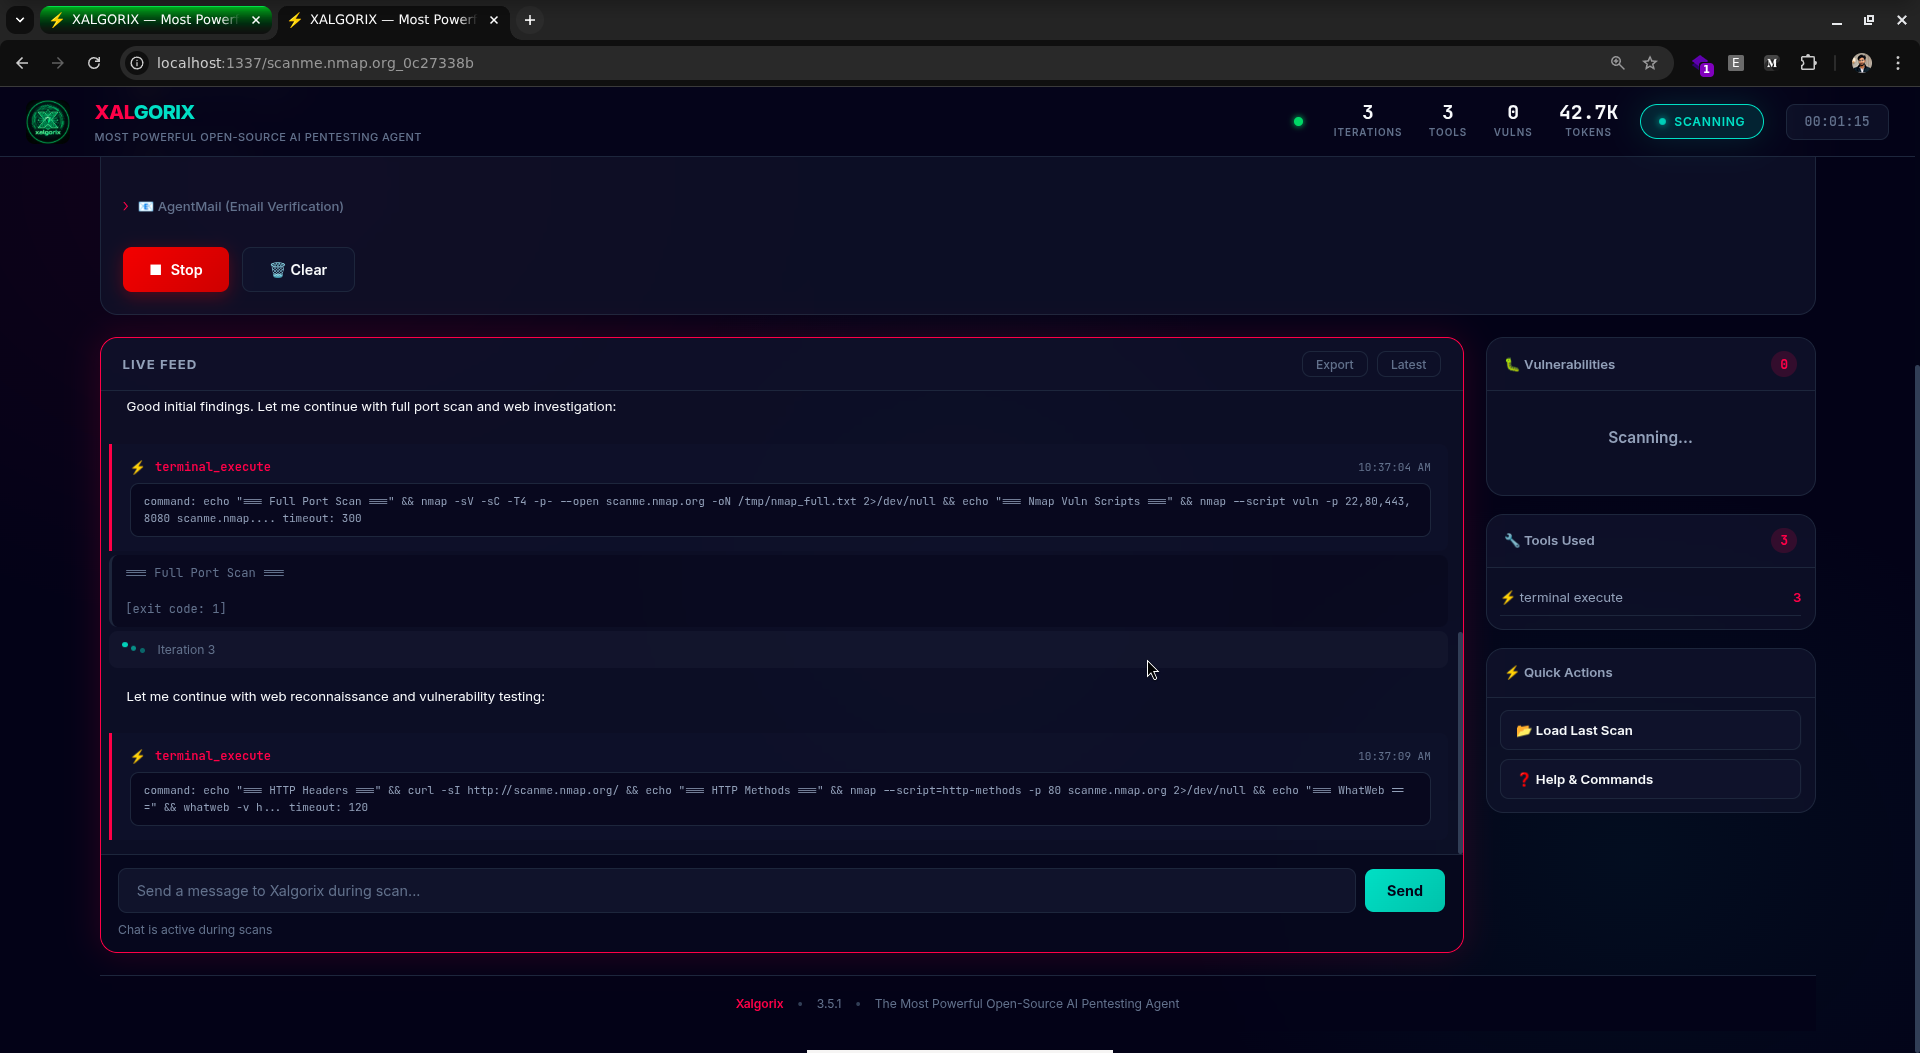
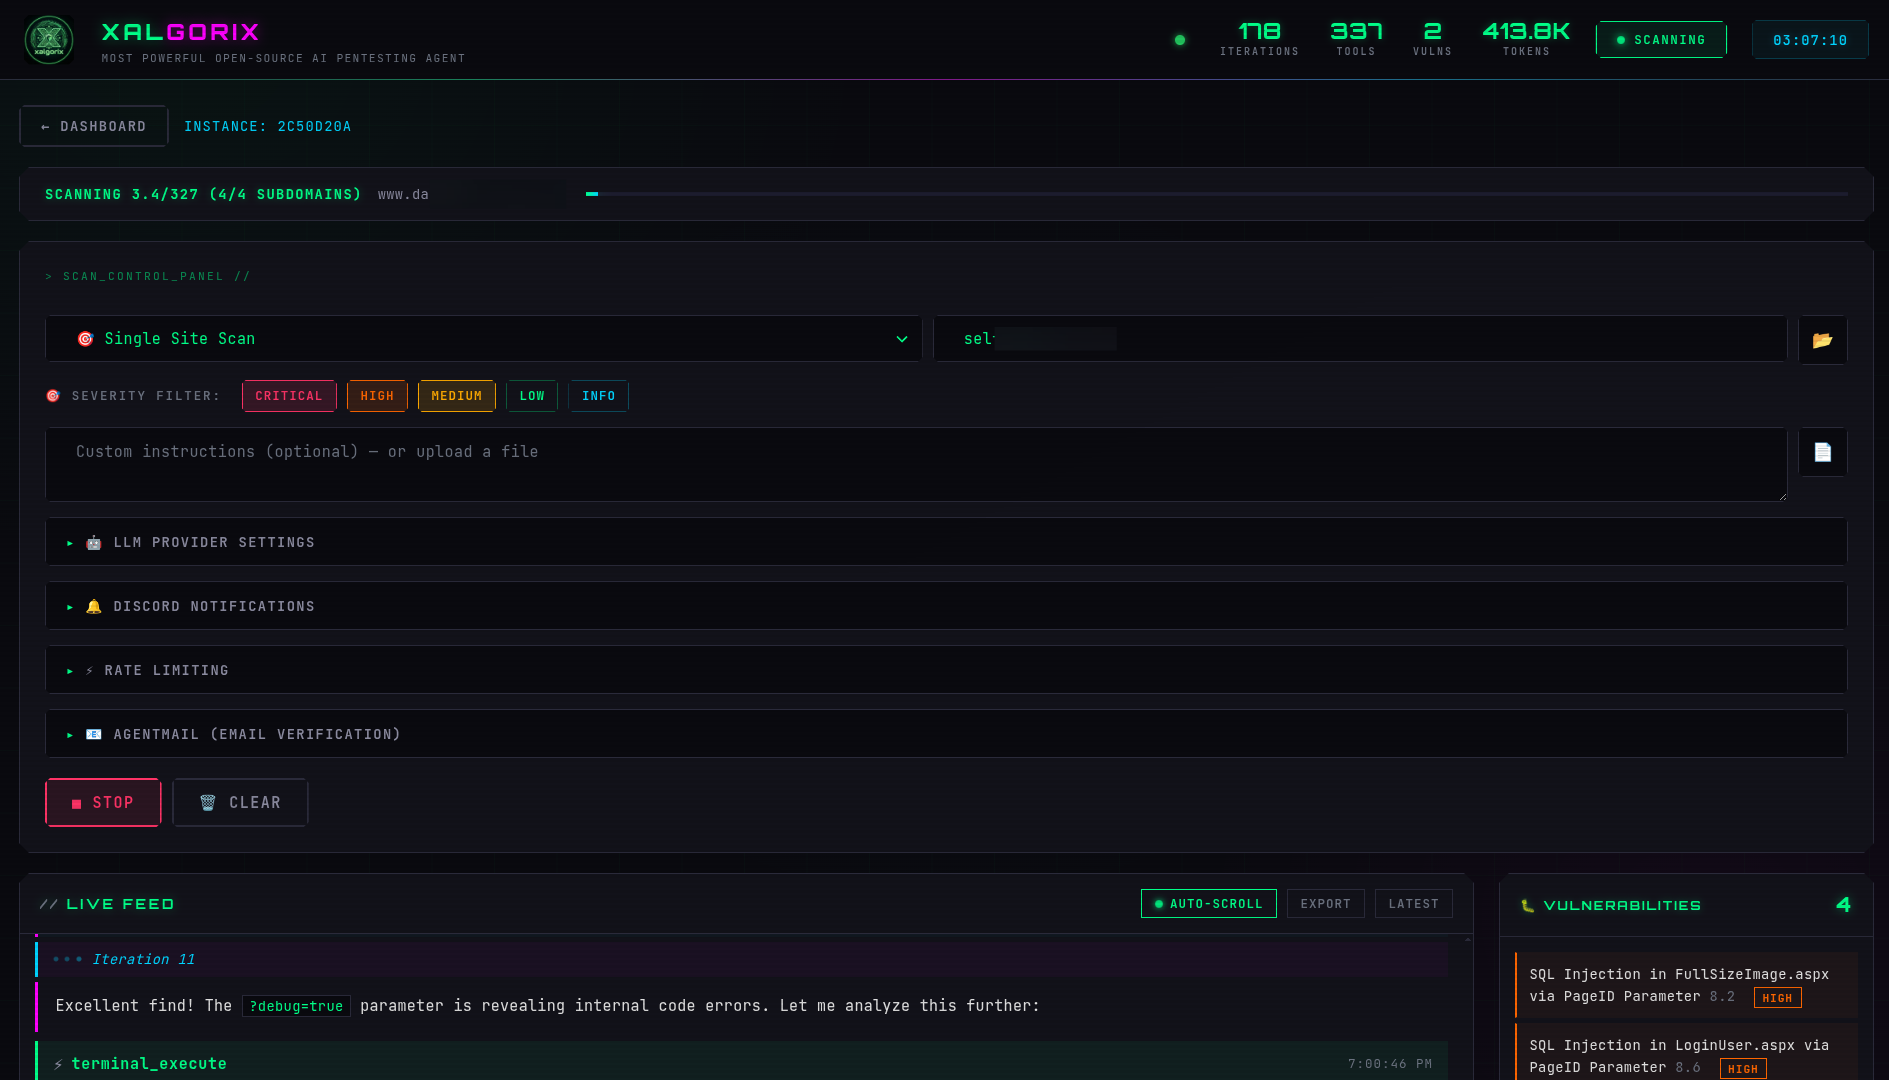
Update README screenshots with new UI images

Changed region(s): [[0.0, 0.0, 1.0, 1.0], [0.8121, 0.8205, 0.9058, 0.8509], [0.8433, 0.3951, 0.8745, 0.4255]]

diff --git a/README.md b/README.md
@@ -25,6 +25,9 @@
 ### Vulnerability Details
 ![Vulnerability Details](assets/ui-screenshot-3.png)
 
+### Chat Interface
+![Chat Interface](assets/ui-screenshot-4.png)
+
 ---
 
 ## 🚀 Xalgorix — The Most Powerful Open-Source AI Pentesting Agent
